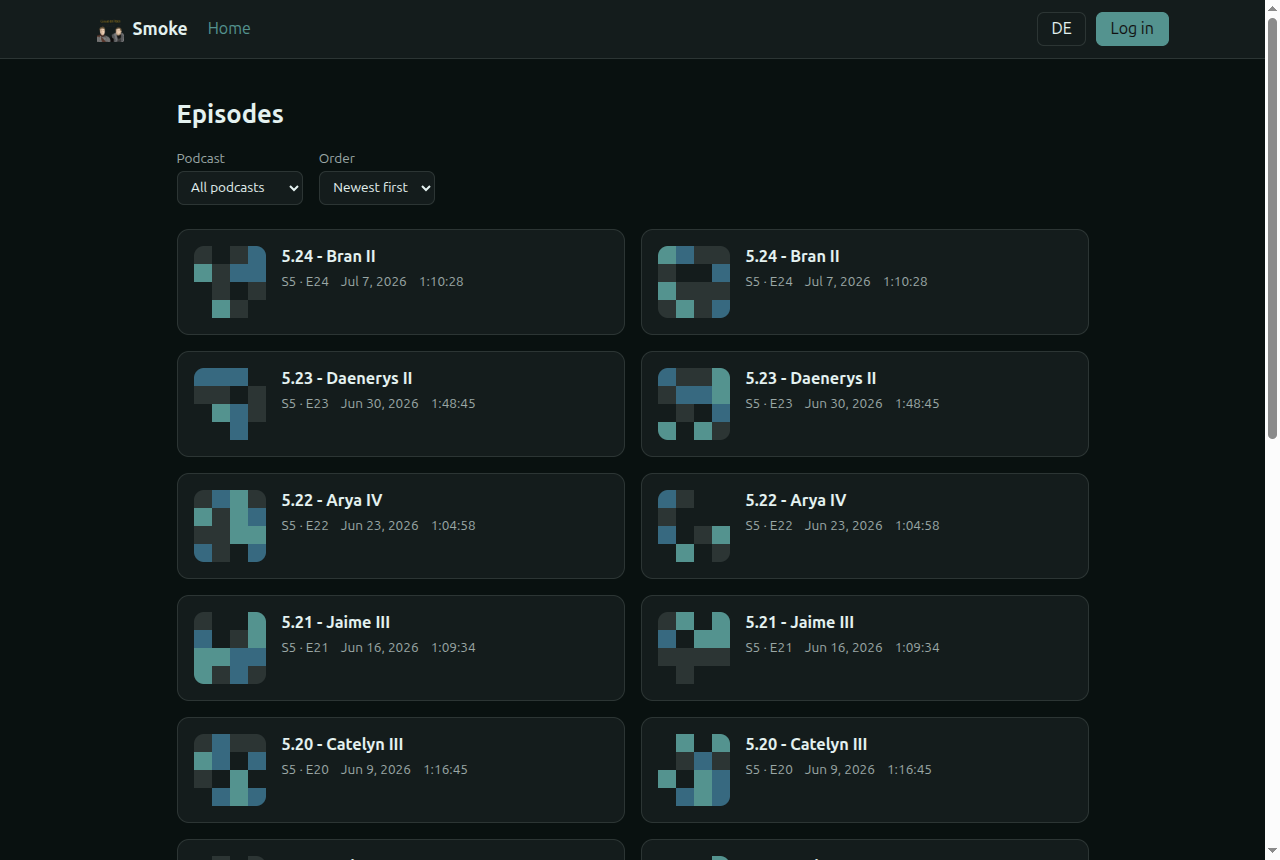
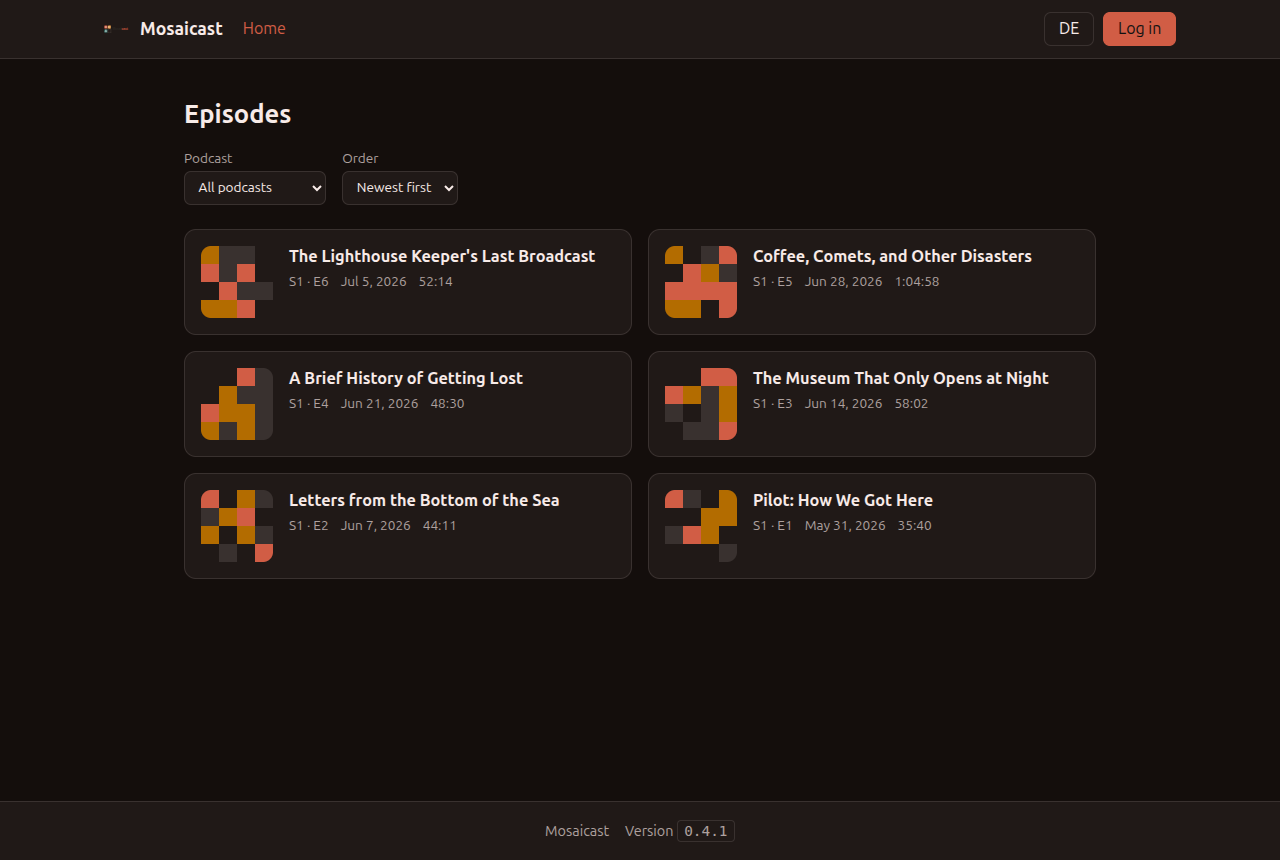
docs: sample feed + detail screenshot, isolated screenshot stack
- Add a fictional demo feed fixture (assets/sample/sample-feed.xml) — "The Sample
  Cast", not any real podcast — so screenshots/tests are self-contained and
  disconnected from real content.
- Regenerate the README screenshots from that sample feed (home + detail, each
  light and dark); the home shots no longer show real podcast content.
- Add the episode detail page to the README screenshots section (<picture> for
  light/dark).
- dev/screenshots.sh: stands up a fleeting, isolated Postgres (host :5433) + a
  local feed server + the dev app seeded with only the sample feed, then tears it
  down — never touches a real dev DB. CLAUDE.md points the screenshot convention
  at it and now covers the detail page too.

Claude-Session: https://claude.ai/code/session_01RqUzpeS72TTHwjfPNMHCa6

diff --git a/CLAUDE.md b/CLAUDE.md
@@ -42,9 +42,10 @@ Java 21 · Spring Boot 3 · PostgreSQL · PF4J · React + Vite
 - **ARCHITECTURE.md and BRIEF.md are READ-ONLY specs** — don't change them unilaterally; flag deviations.
 - Keep CLAUDE.md slim (< ~200 lines); leave incidental learnings to Claude Code's auto memory.
 - **Screenshots:** after a change that alters the shell's look, refresh the README screenshots in
-  `assets/screenshots/` (both **light and dark**). Capture from the running dev shell with the browser
-  tools (`./gradlew bootRun --args=--spring.profiles.active=dev`, seed a feed, screenshot `home-light.png`
-  / `home-dark.png` at ~1280px). Brand assets (logo light/dark) live in `assets/`.
+  `assets/screenshots/` — **home + detail, each light and dark** (`home-{light,dark}.png`,
+  `detail-{light,dark}.png`, ~1280px). Use `dev/screenshots.sh up` (a fleeting Postgres on :5433 + the
+  fictional `assets/sample/sample-feed.xml` — never your real dev DB, never a real podcast), capture with
+  the browser tools, then `dev/screenshots.sh down`. Brand assets (logo light/dark) live in `assets/`.
 
 ## When unsure
 Ask, or note the assumption visibly, instead of silently diverging from ARCHITECTURE.md.

diff --git a/README.md b/README.md
@@ -26,7 +26,17 @@ themes from a single accent seed (OKLCH + WCAG clamp) — shown here in light an
   </picture>
 </p>
 
-<sub>Screenshots are captured from the running shell during UI work — see the note in `CLAUDE.md`.</sub>
+The episode detail page — hero with play, sanitized show notes, and fixed previous/next navigation:
+
+<p align="center">
+  <picture>
+    <source media="(prefers-color-scheme: dark)" srcset="assets/screenshots/detail-dark.png" />
+    <img alt="Mosaicast shell — episode detail" src="assets/screenshots/detail-light.png" width="720" />
+  </picture>
+</p>
+
+<sub>Screenshots use a fictional sample feed (`assets/sample/`), not any real podcast, and are captured
+from the running shell during UI work — see the note in `CLAUDE.md`.</sub>
 
 ## Prerequisite: the plugin SDK
 
